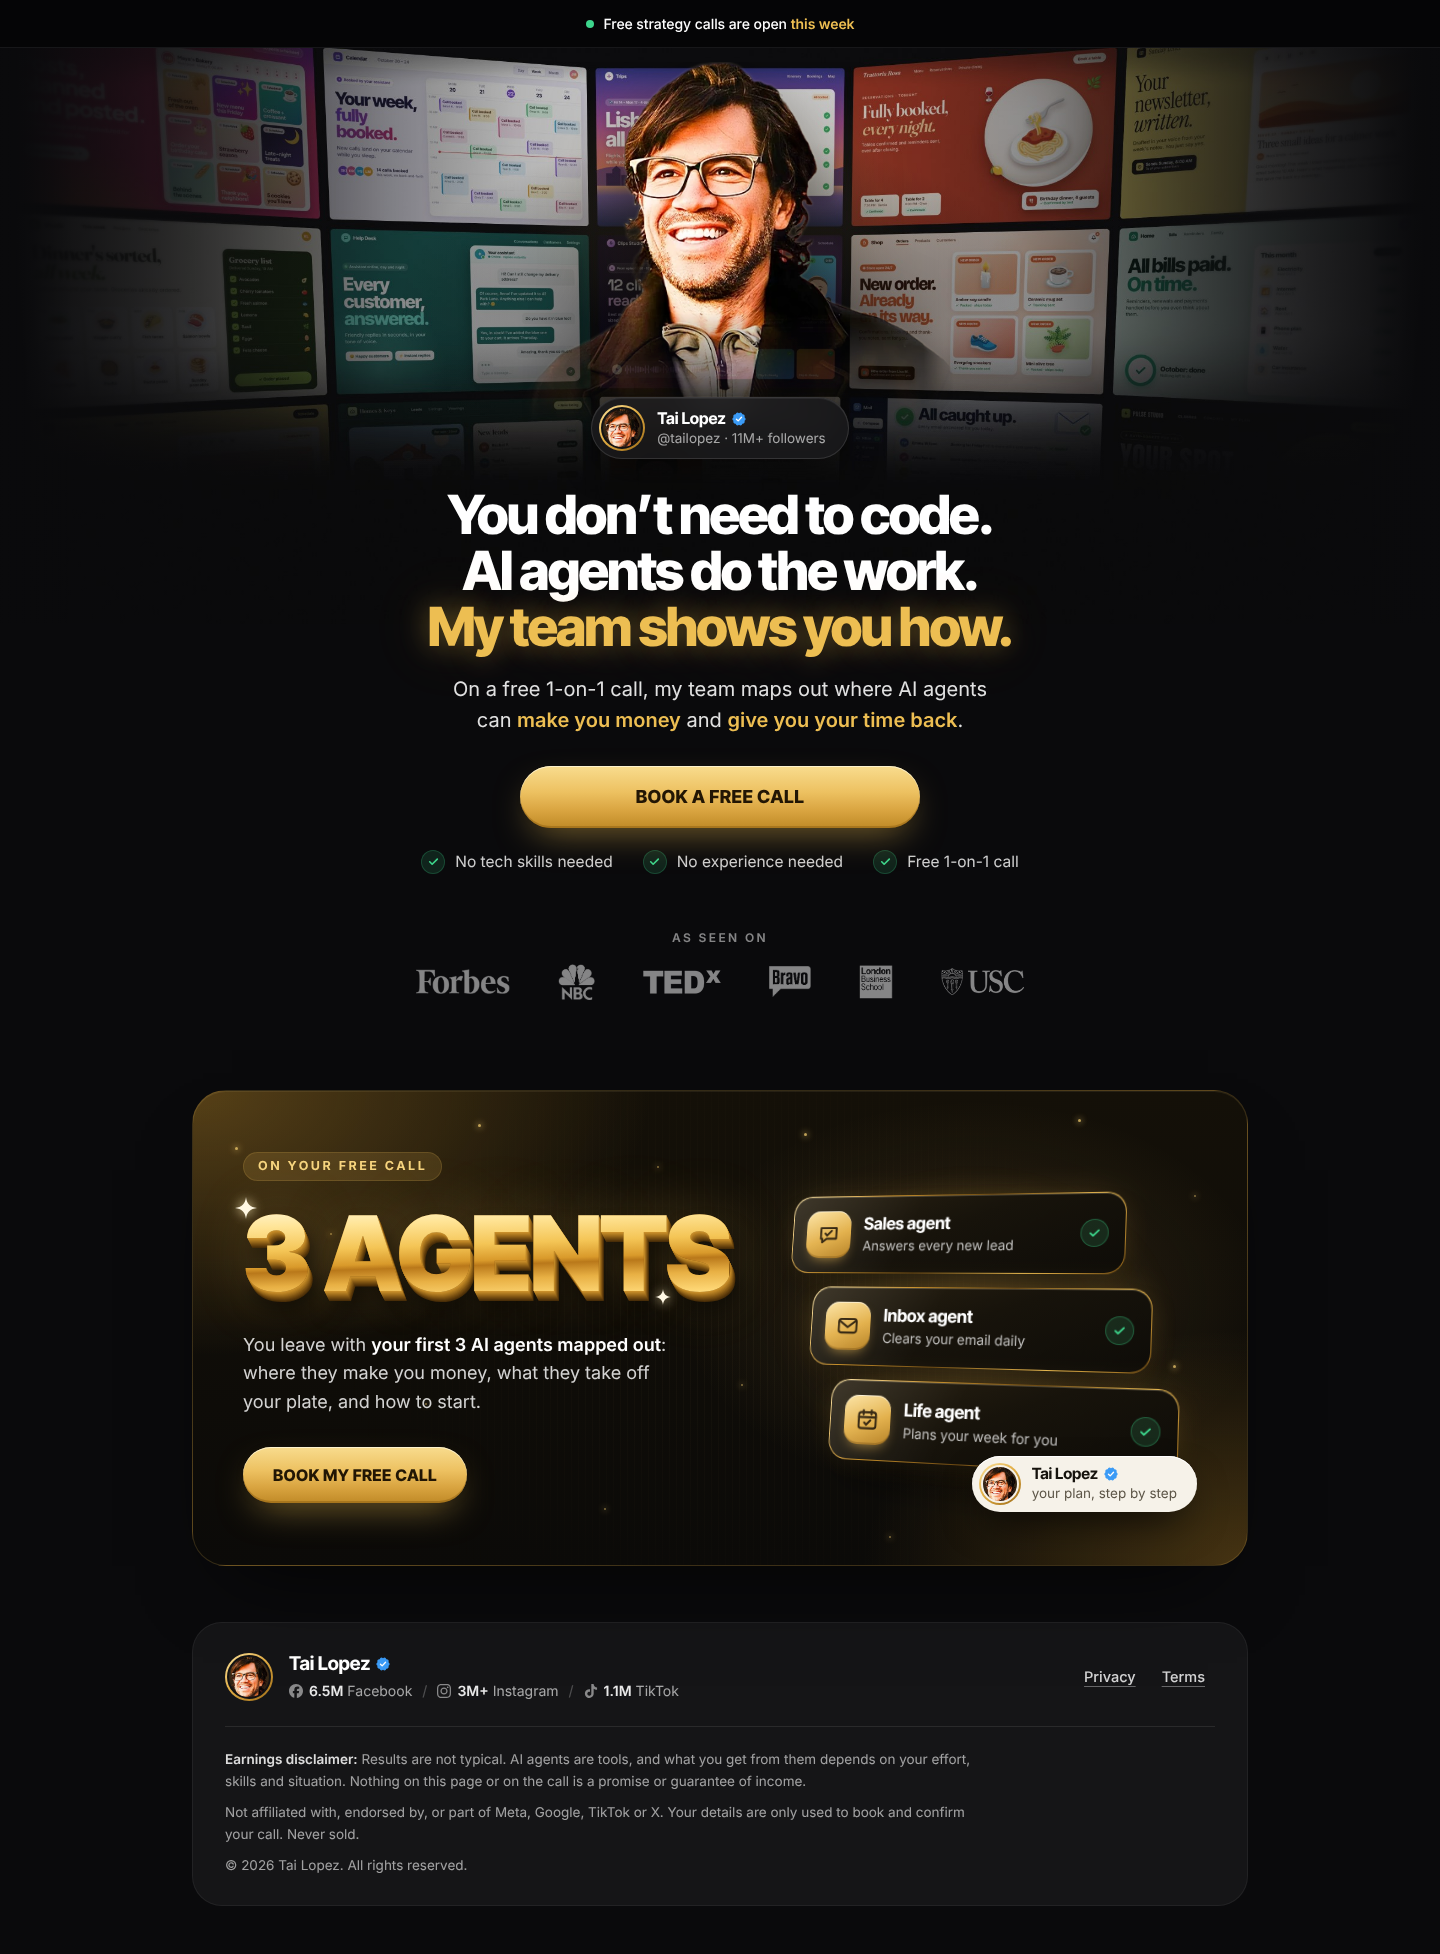
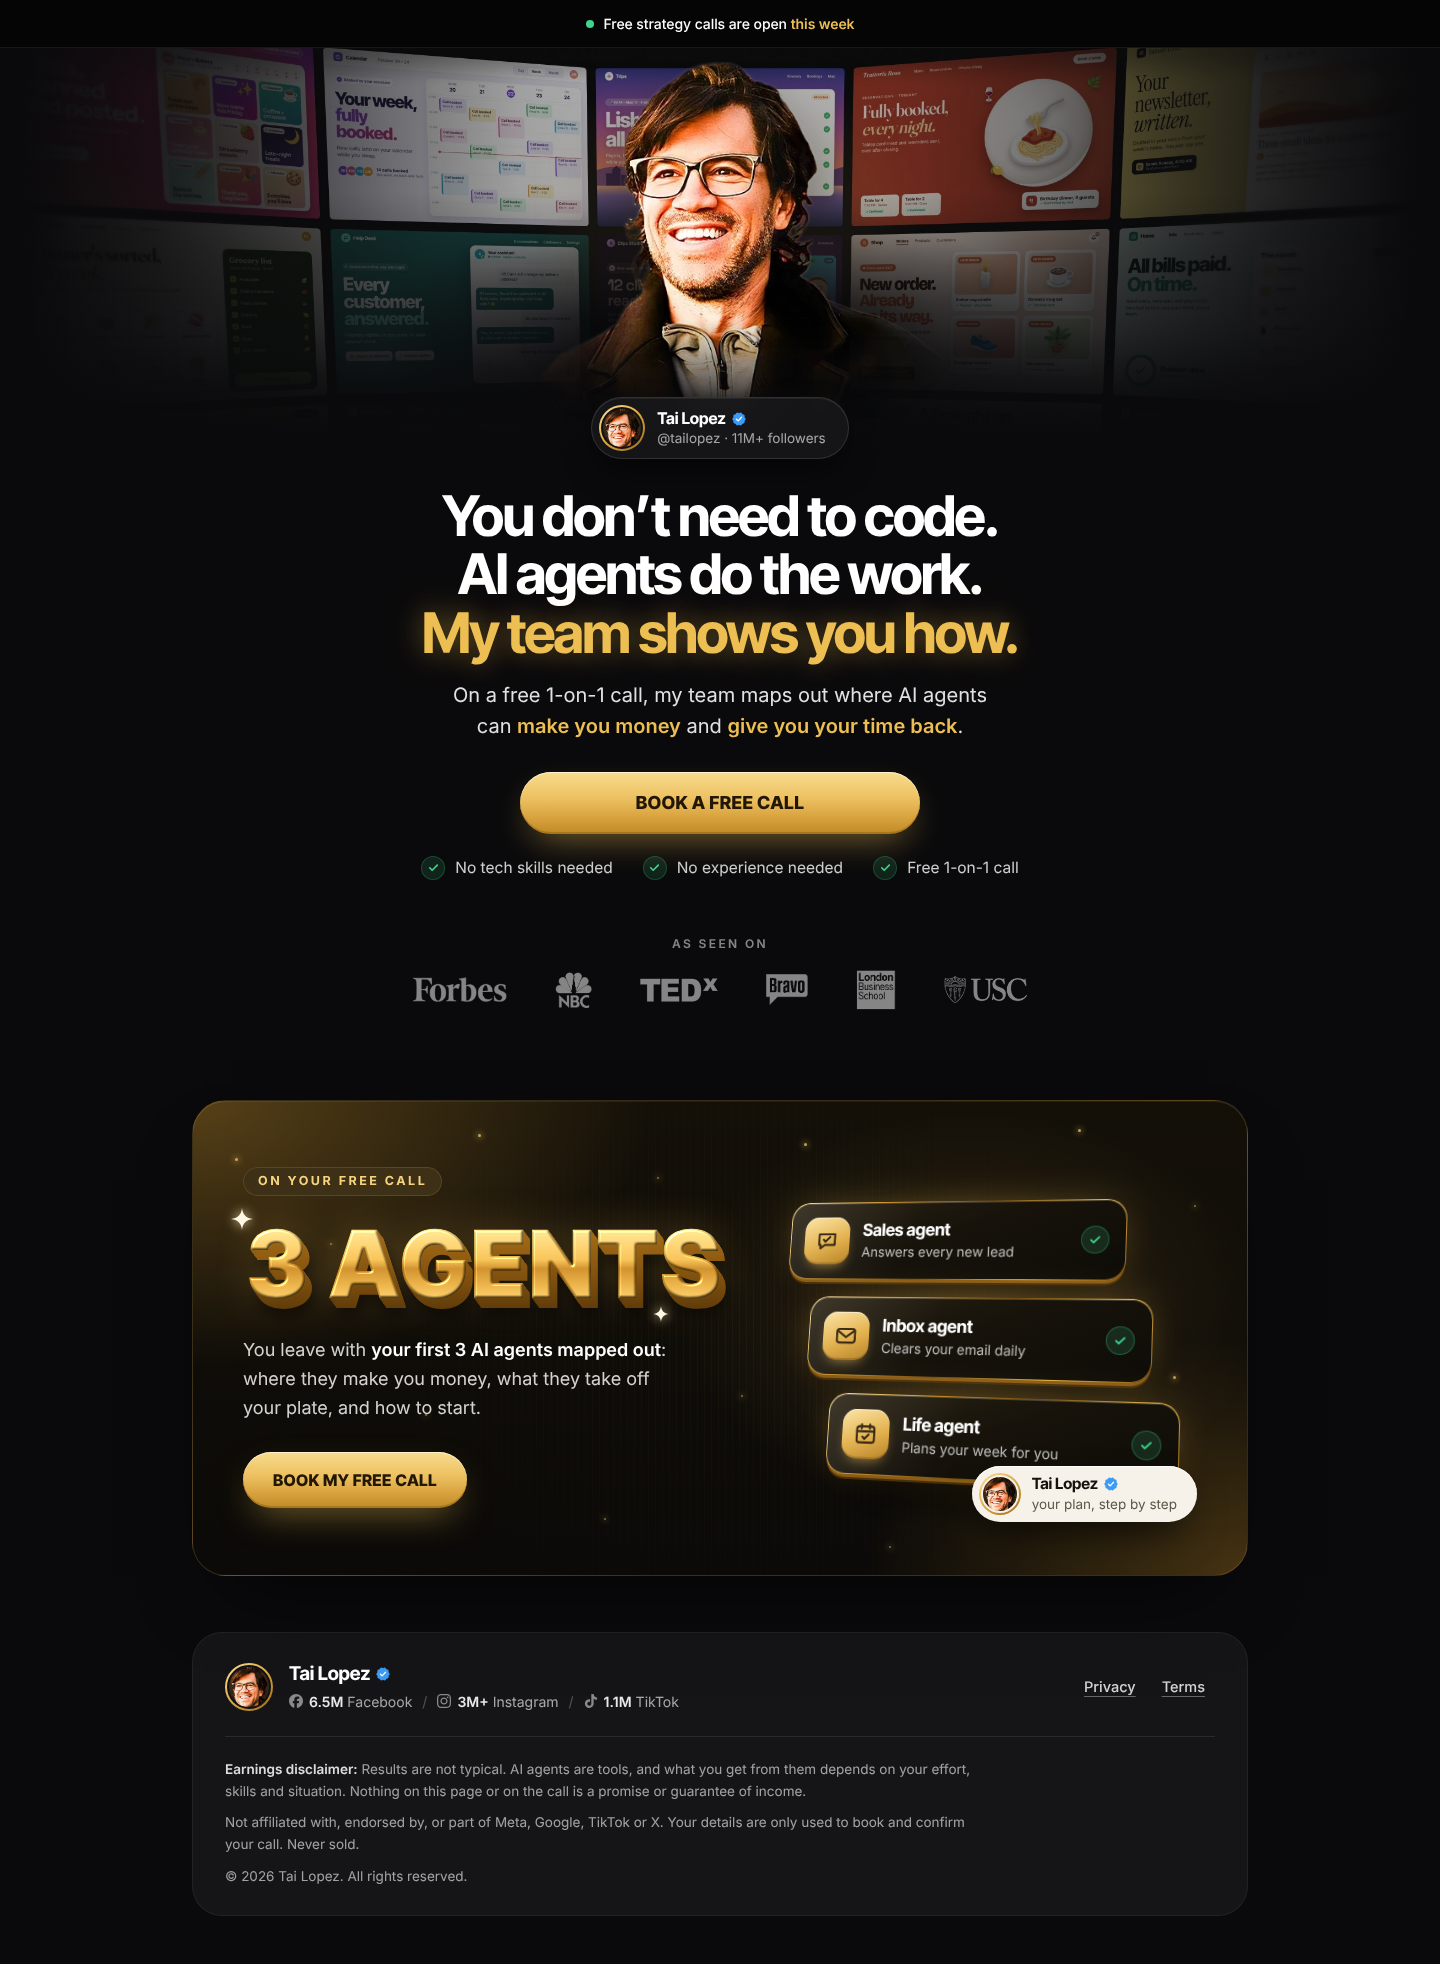
The Scene: rebuild direction 05 on the movlogs.ai model
Tai stands in front of a curved wall of screens showing what AI
agents do for people, with a creator pill, a three-line headline,
one gold CTA, a single 3 AGENTS card and a creator footer card.
About half the length of the other directions.

Claude-Session: https://claude.ai/code/session_01HvLEWz5Ev65U1PUk4CRJ5g

diff --git a/directions/05-scene/index.html b/directions/05-scene/index.html
@@ -62,22 +62,26 @@ button,input{font:inherit;color:inherit}
 .wall{position:absolute;inset:0;z-index:0;display:block;pointer-events:none}
 .wall img{position:absolute;z-index:0;top:0;left:50%;width:var(--wall-w);max-width:none;height:auto;transform:translateX(-50%);
   -webkit-mask-image:linear-gradient(to right,transparent 0,#000 5%,#000 95%,transparent 100%);mask-image:linear-gradient(to right,transparent 0,#000 5%,#000 95%,transparent 100%);
-  filter:saturate(.84) brightness(.95);
+  filter:saturate(.8) brightness(.84);
   animation:wallIn 1.4s ease-out both}
-/* side falloff: the outer screens sink into the dark, so the eye lands on Tai */
+/* falloff: the top row stays lit, lower rows and outer screens sink into the dark (as in the reference),
+   so Tai's chest melts into black instead of into bright screens */
 .wall::after{content:"";position:absolute;z-index:1;top:0;left:50%;width:var(--wall-w);height:calc(var(--wall-w) * .4);transform:translateX(-50%);
-  background:linear-gradient(90deg,rgba(10,10,12,.86) 0%,rgba(10,10,12,.55) 12%,rgba(10,10,12,.12) 27%,transparent 36%,transparent 64%,rgba(10,10,12,.12) 73%,rgba(10,10,12,.55) 88%,rgba(10,10,12,.86) 100%)}
+  background:
+    linear-gradient(180deg,transparent 0%,transparent 25%,rgba(10,10,12,.3) 37%,rgba(10,10,12,.58) 49%,rgba(10,10,12,.84) 60%,#0A0A0C 70%),
+    linear-gradient(90deg,rgba(10,10,12,.9) 0%,rgba(10,10,12,.6) 12%,rgba(10,10,12,.16) 27%,transparent 36%,transparent 64%,rgba(10,10,12,.16) 73%,rgba(10,10,12,.6) 88%,rgba(10,10,12,.9) 100%)}
 @keyframes wallIn{from{opacity:0;transform:translateX(-50%) scale(1.03)}}
-/* soft shadow that seats Tai in front of the wall: low and wide, only behind the shoulders */
-.stage::before{content:"";position:absolute;z-index:1;left:50%;bottom:-14%;width:calc(var(--tai-h) * 1.75);height:calc(var(--tai-h) * .95);transform:translateX(-50%);
-  background:radial-gradient(closest-side,rgba(10,10,11,.72),rgba(10,10,11,.3) 58%,transparent)}
+/* dark seat behind his shoulders: the cut edges of the cutout fade into black, never into a lit screen */
+.stage::before{content:"";position:absolute;z-index:1;left:50%;bottom:calc(var(--tai-h) * -.42);width:calc(var(--tai-h) * 2.1);height:calc(var(--tai-h) * 1.05);transform:translateX(-50%);
+  background:radial-gradient(closest-side,rgba(10,10,12,.95),rgba(10,10,12,.82) 42%,rgba(10,10,12,.42) 72%,transparent)}
 /* warm key light behind his head */
 .stage::after{content:"";position:absolute;z-index:1;left:50%;top:4%;width:calc(var(--tai-h) * 1.1);height:calc(var(--tai-h) * .8);transform:translateX(-50%);
   background:radial-gradient(closest-side,rgba(247,200,110,.16),transparent);pointer-events:none}
 .tai{position:absolute;z-index:2;left:50%;bottom:0;height:var(--tai-h);width:auto;max-width:none;transform:translateX(-46%);
-  -webkit-mask-image:linear-gradient(to bottom,#000 68%,transparent 98%),linear-gradient(to right,transparent 0,#000 7%,#000 93%,transparent 100%);
+  /* head and chest stay solid; the straight-cut shoulder corners and the bottom edge fall off in an ellipse */
+  -webkit-mask-image:radial-gradient(62% 80% at 50% 34%,#000 68%,transparent 100%),linear-gradient(to bottom,#000 70%,transparent 97%);
   -webkit-mask-composite:source-in;
-  mask-image:linear-gradient(to bottom,#000 68%,transparent 98%),linear-gradient(to right,transparent 0,#000 7%,#000 93%,transparent 100%);
+  mask-image:radial-gradient(62% 80% at 50% 34%,#000 68%,transparent 100%),linear-gradient(to bottom,#000 70%,transparent 97%);
   mask-composite:intersect;
   filter:drop-shadow(0 0 1px rgba(255,226,170,.35)) drop-shadow(0 24px 40px rgba(0,0,0,.55));
   animation:rise 1.1s .15s cubic-bezier(.2,.8,.2,1) both}
@@ -95,11 +99,11 @@ button,input{font:inherit;color:inherit}
 
 /* headline block */
 .copy{position:relative;z-index:3;max-width:860px;margin:0 auto}
-.h1{margin-top:28px;font:800 54px/1.04 var(--display);letter-spacing:-.042em;text-wrap:balance}
+.h1{margin-top:28px;font:700 56px/1.04 var(--display);letter-spacing:-.04em;text-wrap:balance}
 .h1 .ln{display:block}
 .h1 .gold{color:var(--gold);text-shadow:0 0 28px rgba(237,190,82,.38),0 0 64px rgba(237,190,82,.18)}
 .sub{max-width:640px;margin:18px auto 0;font-size:20px;line-height:1.55;color:rgba(255,255,255,.88);text-wrap:balance}
-.sub em{font-style:normal;font-weight:600;color:var(--gold)}
+.sub em{font-style:normal;font-weight:600;color:var(--gold);white-space:nowrap}
 
 /* gold CTA */
 .cta{position:relative;display:inline-flex;align-items:center;justify-content:center;gap:10px;height:62px;padding:0 40px;border:0;border-radius:999px;cursor:pointer;
@@ -126,7 +130,7 @@ button,input{font:inherit;color:inherit}
 .logos{display:flex;flex-wrap:wrap;align-items:center;justify-content:center;gap:18px 48px;margin-top:20px}
 .logos img{width:auto;opacity:.5;transition:opacity .2s}
 .logos li:hover img{opacity:.8}
-.lg-forbes{height:25px}.lg-lbs{height:34px}.lg-nbc{height:36px}.lg-bravo{height:31px}.lg-tedx{height:24px}.lg-usc{height:27px}
+.lg-forbes{height:25px}.lg-lbs{height:40px}.lg-nbc{height:36px}.lg-bravo{height:31px}.lg-tedx{height:24px}.lg-usc{height:27px}
 
 /* ---------- Feature card ---------- */
 .feature{padding:56px 16px 0}
@@ -146,16 +150,12 @@ button,input{font:inherit;color:inherit}
 .spk{position:absolute;z-index:0;width:3px;height:3px;border-radius:50%;background:#F6CF70;box-shadow:0 0 6px 1px rgba(246,207,112,.7);opacity:.75;animation:tw 4.5s ease-in-out infinite;animation-delay:var(--d,0s)}
 .spk.s{width:2px;height:2px;opacity:.5}
 @keyframes tw{0%,100%{opacity:.15}50%{opacity:.9}}
-.kick{display:inline-block;padding:8px 15px;border-radius:999px;background:rgba(222,176,82,.16);box-shadow:inset 0 0 0 1px rgba(222,176,82,.18);
+.kick{position:relative;z-index:2;display:inline-block;padding:8px 15px;border-radius:999px;background:linear-gradient(rgba(222,176,82,.16),rgba(222,176,82,.16)),#1E180C;box-shadow:inset 0 0 0 1px rgba(222,176,82,.18);
   font:700 12.5px/1 var(--sans);letter-spacing:.2em;text-transform:uppercase;color:var(--gold-hi)}
 .g-left{position:relative;z-index:1}
-/* 3D gold statement */
-.gold3d{position:relative;display:inline-block;margin-top:26px;font:900 104px/.9 var(--display);letter-spacing:-.03em;text-transform:uppercase;white-space:nowrap}
-.gold3d .face{position:relative;z-index:1;display:block;padding-bottom:.08em;
-  background:linear-gradient(178deg,#FFF7D6 0%,#FFE496 18%,#F4C556 38%,#D99A2B 52%,#B9781A 56%,#E8B044 68%,#FFD978 84%,#C48A2A 100%);
-  -webkit-background-clip:text;background-clip:text;color:transparent}
-.gold3d .depth{position:absolute;z-index:0;inset:0;display:block;padding-bottom:.08em;color:#8A5A12;
-  text-shadow:.5px 1px 0 #C88E2A,1px 2px 0 #BC8425,1.5px 3px 0 #AE7920,2px 4px 0 #A06E1C,2.5px 5px 0 #926318,3px 6px 0 #835714,3.5px 7px 0 #744C10,4px 8px 0 #66410D,4.5px 9px 0 #57370A,5px 10px 0 #4A2E08,8px 18px 22px rgba(0,0,0,.65),0 0 60px rgba(240,186,80,.3)}
+/* 3D gold statement: SVG text with a lit bevel (specular + diffuse lighting), a smooth extrusion and a cast shadow */
+.gold3d{position:relative;display:block;width:min(100%,490px);margin-top:26px;line-height:0}
+.g3{display:block;width:100%;height:auto;overflow:visible}
 .star{position:absolute;z-index:2;width:22px;height:22px;fill:#FFF8E4;filter:drop-shadow(0 0 6px rgba(255,236,180,.95));animation:tw 3.6s ease-in-out infinite}
 .g-line{max-width:430px;margin-top:22px;font-size:18px;line-height:1.6;color:rgba(255,255,255,.82)}
 .g-line b{font-weight:600;color:#fff}
@@ -164,12 +164,13 @@ button,input{font:inherit;color:inherit}
 /* agent deck */
 .g-right{position:relative;z-index:1;min-height:360px;display:grid;place-items:center}
 .glow{position:absolute;inset:6% 4%;border-radius:50%;background:radial-gradient(closest-side,rgba(240,186,80,.28),rgba(240,186,80,.08) 60%,transparent);filter:blur(8px)}
-.deck{position:relative;display:grid;gap:14px;width:100%;max-width:410px;transform:perspective(1100px) rotateY(-16deg) rotateX(7deg) rotateZ(1deg);transform-style:preserve-3d}
+.deck{position:relative;display:grid;gap:18px;width:100%;max-width:410px;transform:perspective(1100px) rotateY(-14deg) rotateX(8deg) rotateZ(1deg);transform-style:preserve-3d}
 .agent{position:relative;display:flex;align-items:center;gap:14px;padding:15px 16px 15px 15px;border-radius:20px;
   border:1.5px solid transparent;
   background:linear-gradient(160deg,#2A2213 0%,#17130B 46%,#0E0C08 100%) padding-box,
     linear-gradient(135deg,#FFEAB0 0%,#C8902C 26%,#6E4A12 50%,#E8B850 76%,#8A5C14 100%) border-box;
-  box-shadow:inset 0 1px 0 rgba(255,236,190,.22),0 28px 50px -22px rgba(0,0,0,.95),0 0 36px -14px rgba(240,186,80,.4);
+  /* gold slab edge underneath gives each tile physical thickness */
+  box-shadow:inset 0 1px 0 rgba(255,236,190,.22),0 4px 0 -1px #8A5C16,0 6px 0 -1px #4A3008,0 30px 50px -20px rgba(0,0,0,.95),0 0 40px -12px rgba(240,186,80,.45);
   animation:float 6s ease-in-out infinite;animation-delay:var(--d,0s)}
 .agent::before{content:"";position:absolute;inset:0;border-radius:inherit;pointer-events:none;background:linear-gradient(115deg,rgba(255,255,255,.1) 0%,rgba(255,255,255,0) 38%)}
 .agent:nth-child(1){margin-right:56px}
@@ -223,7 +224,7 @@ button,input{font:inherit;color:inherit}
 @media(max-width:1100px) and (min-width:700px){
   .h1{font-size:48px}
   .gcard{grid-template-columns:minmax(0,1fr);text-align:center;padding:52px 40px 60px;gap:40px}
-  .g-line{margin-left:auto;margin-right:auto}
+  .g-line,.gold3d{margin-left:auto;margin-right:auto}
 }
 
 /* ---------- Mobile ---------- */
@@ -231,11 +232,13 @@ button,input{font:inherit;color:inherit}
   .bar{height:44px;font-size:13.5px}
   .hero{--wall-w:100vw;--stage-h:calc(var(--wall-w) * .7);--tai-h:calc(var(--wall-w) * .6);padding-bottom:26px}
   .wall img{width:100%;-webkit-mask-image:none;mask-image:none}
-  .wall::after{height:calc(var(--wall-w) * .92);background:linear-gradient(90deg,rgba(10,10,12,.7) 0%,rgba(10,10,12,.2) 16%,transparent 30%,transparent 70%,rgba(10,10,12,.2) 84%,rgba(10,10,12,.7) 100%)}
-  .stage::before{width:calc(var(--tai-h) * 1.7);bottom:-16%}
+  .wall::after{height:calc(var(--wall-w) * .92);background:
+    linear-gradient(180deg,transparent 0%,transparent 28%,rgba(10,10,12,.3) 44%,rgba(10,10,12,.62) 57%,rgba(10,10,12,.88) 69%,#0A0A0C 80%),
+    linear-gradient(90deg,rgba(10,10,12,.78) 0%,rgba(10,10,12,.28) 16%,transparent 30%,transparent 70%,rgba(10,10,12,.28) 84%,rgba(10,10,12,.78) 100%)}
+  .stage::before{width:calc(var(--tai-h) * 1.95)}
   .creator{margin-top:-30px;gap:11px;padding:6px 20px 6px 6px}
   .creator .av{width:44px;height:44px}
-  .h1{margin-top:22px;font-size:min(8.15vw,38px);letter-spacing:-.045em;word-spacing:.03em;line-height:1.06}
+  .h1{margin-top:22px;font-size:min(8vw,40px);letter-spacing:-.04em;word-spacing:.02em;line-height:1.06}
   .sub{margin-top:16px;font-size:17px;line-height:1.55;max-width:350px}
   .hero .cta{width:100%;height:60px;margin-top:26px;font-size:17.5px}
   .checks{flex-direction:column;align-items:center;gap:10px;margin-top:22px;font-size:16px}
@@ -243,10 +246,10 @@ button,input{font:inherit;color:inherit}
   .press{margin-top:44px}
   .logos{display:grid;grid-template-columns:repeat(3,auto);justify-content:space-evenly;gap:22px 18px;margin-top:18px}
   .logos li{display:flex;justify-content:center}
-  .lg-forbes{height:21px}.lg-lbs{height:32px}.lg-nbc{height:31px}.lg-bravo{height:27px}.lg-tedx{height:21px}.lg-usc{height:23px}
+  .lg-forbes{height:21px}.lg-lbs{height:36px}.lg-nbc{height:31px}.lg-bravo{height:27px}.lg-tedx{height:21px}.lg-usc{height:23px}
   .feature{padding-top:44px}
   .gcard{grid-template-columns:minmax(0,1fr);text-align:center;gap:34px;min-height:0;padding:44px 20px 40px;border-radius:30px}
-  .gold3d{margin-top:22px;font-size:min(15.4vw,72px)}
+  .gold3d{margin:22px auto 0;width:min(100%,340px)}
   .g-line{margin:18px auto 0;font-size:17px}
   .gcard .cta{width:100%;max-width:340px}
   .g-right{min-height:0;padding-bottom:40px}
@@ -436,10 +439,34 @@ legend{padding:0;font-size:15px;font-weight:600;color:var(--ink)}
       <div class="g-left">
         <span class="kick">On your free call</span>
         <h2 class="gold3d" id="plan-title">
-          <span class="depth" aria-hidden="true">3 Agents</span>
-          <span class="face">3 Agents</span>
-          <svg class="star" style="left:-8px;top:-10px" aria-hidden="true"><use href="#i-star"/></svg>
-          <svg class="star" style="right:12%;bottom:4px;width:16px;height:16px;animation-delay:1.4s" aria-hidden="true"><use href="#i-star"/></svg>
+          <span class="sr-only">3 Agents</span>
+          <svg class="g3" viewBox="0 0 520 98" aria-hidden="true" focusable="false">
+            <defs>
+              <linearGradient id="g3-face" x1="0" y1="0" x2="0" y2="1">
+                <stop offset="0" stop-color="#FFF4C8"/><stop offset=".2" stop-color="#FFE08A"/><stop offset=".46" stop-color="#F0BA4C"/>
+                <stop offset=".54" stop-color="#C7861F"/><stop offset=".68" stop-color="#E3A93C"/><stop offset=".88" stop-color="#FFD978"/><stop offset="1" stop-color="#E2A940"/>
+              </linearGradient>
+              <linearGradient id="g3-side" x1="0" y1="0" x2="0" y2="1"><stop offset="0" stop-color="#B07519"/><stop offset=".6" stop-color="#7A4C0D"/><stop offset="1" stop-color="#4A2D06"/></linearGradient>
+              <filter id="g3-bevel" x="-4%" y="-12%" width="108%" height="130%" color-interpolation-filters="sRGB">
+                <feGaussianBlur in="SourceAlpha" stdDeviation="1.15" result="bl"/>
+                <feSpecularLighting in="bl" surfaceScale="2.8" specularConstant="1" specularExponent="24" lighting-color="#FFF7DE" result="sp"><feDistantLight azimuth="235" elevation="42"/></feSpecularLighting>
+                <feComposite in="sp" in2="SourceAlpha" operator="in" result="spi"/>
+                <feDiffuseLighting in="bl" surfaceScale="2.8" diffuseConstant="1.05" lighting-color="#fff" result="df"><feDistantLight azimuth="235" elevation="55"/></feDiffuseLighting>
+                <feComposite in="SourceGraphic" in2="df" operator="arithmetic" k1=".75" k2=".3" k3="0" k4="0" result="lit"/>
+                <feComposite in="lit" in2="spi" operator="arithmetic" k1="0" k2="1" k3=".75" k4="0" result="out"/>
+                <feComposite in="out" in2="SourceAlpha" operator="in"/>
+              </filter>
+              <filter id="g3-soft" x="-15%" y="-40%" width="130%" height="200%"><feGaussianBlur stdDeviation="9"/></filter>
+              <filter id="g3-glow" x="-20%" y="-60%" width="140%" height="240%"><feGaussianBlur stdDeviation="22"/></filter>
+              <text id="g3-t" x="4" y="81" font-family="Inter Tight, Inter, system-ui, sans-serif" font-weight="900" font-size="100" letter-spacing="2" textLength="505" lengthAdjust="spacingAndGlyphs">3 AGENTS</text>
+            </defs>
+            <use href="#g3-t" fill="#F0BA50" opacity=".3" filter="url(#g3-glow)"/>
+            <use href="#g3-t" x="8" y="18" fill="#000" opacity=".7" filter="url(#g3-soft)"/>
+            <g fill="url(#g3-side)"><use href="#g3-t" x="0.45" y="0.62"/><use href="#g3-t" x="0.90" y="1.24"/><use href="#g3-t" x="1.35" y="1.86"/><use href="#g3-t" x="1.80" y="2.48"/><use href="#g3-t" x="2.25" y="3.10"/><use href="#g3-t" x="2.70" y="3.72"/><use href="#g3-t" x="3.15" y="4.34"/><use href="#g3-t" x="3.60" y="4.96"/><use href="#g3-t" x="4.05" y="5.58"/><use href="#g3-t" x="4.50" y="6.20"/><use href="#g3-t" x="4.95" y="6.82"/><use href="#g3-t" x="5.40" y="7.44"/><use href="#g3-t" x="5.85" y="8.06"/><use href="#g3-t" x="6.30" y="8.68"/><use href="#g3-t" x="6.75" y="9.30"/><use href="#g3-t" x="7.20" y="9.92"/></g>
+            <use href="#g3-t" fill="url(#g3-face)" filter="url(#g3-bevel)"/>
+          </svg>
+          <svg class="star" style="left:-12px;top:-14px" aria-hidden="true"><use href="#i-star"/></svg>
+          <svg class="star" style="right:13%;bottom:-8px;width:16px;height:16px;animation-delay:1.4s" aria-hidden="true"><use href="#i-star"/></svg>
         </h2>
         <p class="g-line">You leave with <b>your first 3 AI agents mapped out</b>: where they make you money, what they take off your plate, and how to start.</p>
         <button class="cta" type="button" id="card-cta" data-book>Book my free call</button>
